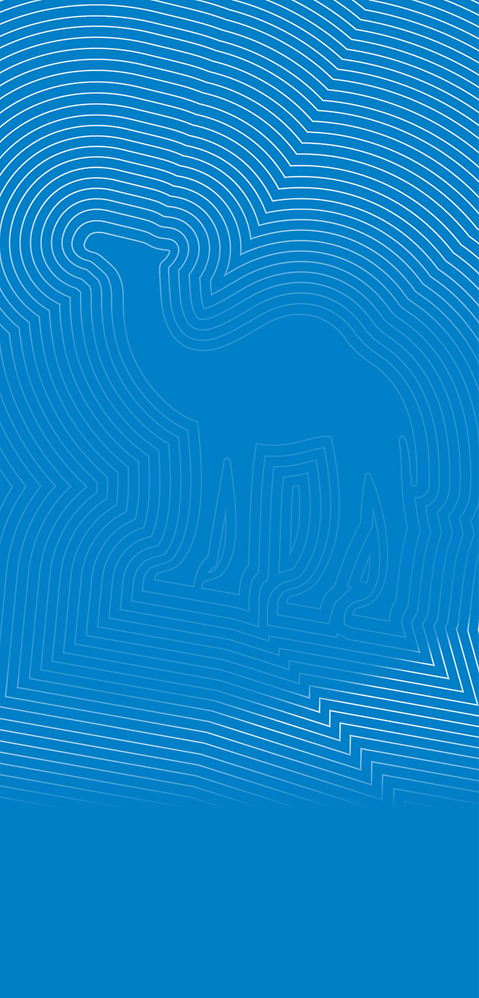
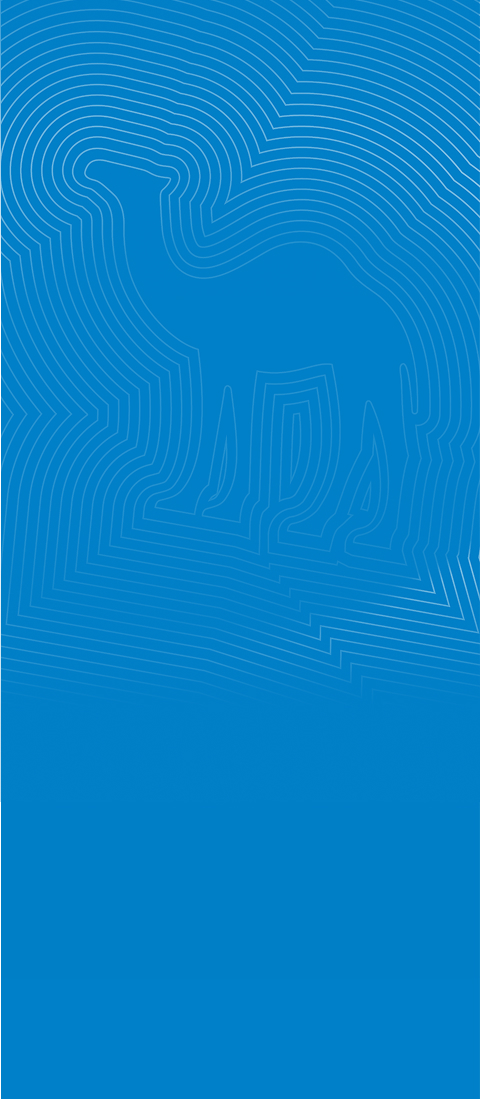
finish all project

diff --git a/css/main.css b/css/main.css
@@ -1,15 +1,19 @@
 @font-face {
-    font-family: 'Calibri Regular';
-    font-style: normal;
+    font-family: 'Calibri';
+    src: url('../fonts/Calibri.woff2') format('woff2'),
+    url('../fonts/Calibri.woff') format('woff');
     font-weight: normal;
-    src: local('Calibri Regular'), url('../fonts/Calibri.woff') format('woff');
+    font-style: normal;
+    font-display: swap;
 }
 
 @font-face {
     font-family: 'Calibri Bold';
+    src: url('../fonts/Calibri-Bold.woff2') format('woff2'),
+    url('../fonts/Calibri-Bold.woff') format('woff');
+    font-weight: bold;
     font-style: normal;
-    font-weight: normal;
-    src: local('Calibri Bold'), url('../fonts/Calibribold.woff') format('woff');
+    font-display: swap;
 }
 
 
@@ -195,6 +199,7 @@ body {
     align-items: center;
     gap:8px;
     color: #ffffff;
+    text-transform: uppercase;
 }
 .icon-arrow{
 
@@ -206,20 +211,9 @@ body {
 .btn:active{
     background: #337BCC;
 }
-.btn-small{
-    font-size: 20px;
-    font-weight: 400;
-    line-height: 22px;
-}
 
-.button-holder{
-    display: grid;
-    grid-template-columns: repeat(2, 1fr);
-    grid-column-gap: 14px;
-    grid-row-gap: 14px;
-    max-width: 368px;
-    margin: 0 auto 35px;
-}
+
+
 .buttons-wrap{
     display: flex;
     flex-direction: column;
@@ -228,10 +222,8 @@ body {
     margin: 0 auto 35px;
 }
 
-
-
 .link{
-    font: 400 15px "Futura New", sans-serif;
+    font: 400 15px "Calibri", sans-serif;
     letter-spacing: 0.02em;
     text-decoration-skip-ink: none;
     text-align: center;
@@ -247,11 +239,13 @@ body {
     color: #fff;
     text-shadow: 0 3px 6px 0 rgba(0, 0, 0, 0.3);
     margin-top: 0;
+    text-transform: uppercase;
 }
 
 .regular-title.small-mode{
     font: 700 22px "Calibri", sans-serif;
     letter-spacing: 0.02em;
+    text-transform: none;
 }
 
 .regular-text{
@@ -278,15 +272,13 @@ body {
 .mb-45{
     margin-bottom: 45px;
 }
-.mt-50{
-    margin-top: 50px;
+.mb-75{
+    margin-bottom: 75px;
 }
-.mt-90{
-    margin-top: 90px;
+.mb-90{
+    margin-bottom: 90px;
 }
-.mt-140{
-    margin-top: 140px;
-}
+
 .footer{
     background-color: #FFFFFF;
     text-align: center;
@@ -298,17 +290,8 @@ body {
     margin: 0 auto;
 }
 
-
-
-
-
 @media (min-width: 375px) {
     .footer img{
       min-height: 102px;
-    }
-}
-@media (min-width: 480px) {
-    .main-content{
-
     }
 }

diff --git a/page7.html b/page7.html
@@ -6,32 +6,46 @@
   <meta content="IE=edge" http-equiv="X-UA-Compatible">
   <meta content="width=device-width, initial-scale=1.0, maximum-scale=1.0, user-scalable=no" name="viewport">
   <meta content="telephone=no" name="format-detection"/>
-  <title>Jti Winston</title>
-  
-  
+  <title>Camel Compact Blue</title>
   <link rel="stylesheet" href="https://cdnjs.cloudflare.com/ajax/libs/normalize/8.0.1/normalize.min.css" integrity="sha512-NhSC1YmyruXifcj/KFRWoC561YpHpc5Jtzgvbuzx5VozKpWvQ+4nXhPdFgmx8xqexRcpAglTj9sIBWINXa8x5w==" crossorigin="anonymous" referrerpolicy="no-referrer" />
-  <link rel="stylesheet" href="https://cdn.jsdelivr.net/npm/swiper@11/swiper-bundle.min.css"/>
   <link href="css/main.css" rel="stylesheet" type="text/css">
 </head>
 
 <body>
 <main class="regular-bg">
   <div class="container">
-    <div class="small-content">
-      <h1 class="regular-title big-mode mb-25">გამოწერის გაუქმება</h1>
-      <img src="img/letter.svg" alt="letter" class="img-icon mb-25">
-      <p class="regular-text small-mode mb-25"> გთხოვთ, გვითხრათ, რატომ გსურთ <br> გამოწერის გაუქმება:</p>
-      <div class="buttons-wrap">
-        <button class="btn btn-small">არ ვარ <br> დაინტერესებული ასეთი <br>  შეთავაზებებით</button>
-        <button class="btn btn-small">არასდროს გამომიწერია</button>
-        <button class="btn btn-small">არ ვეწევი</button>
-        <button class="btn btn-small">სხვა მიზეზი</button>
-        <button class="btn btn-small">არ მინდა მიზეზის <br> დასახელება</button>
+    <div class="regular-content">
+      <div class="icon-content">
+        <h1 class="regular-title mb-75">
+          გამოწერის <br> გაუქმება
+        </h1>
+        <img src="img/icons/mail.svg" alt="mail" class="img-icon">
+        <p class="regular-text mb-25" >
+          გთხოვთ, გვითხრათ, რატომ <br>
+          გსურთ გამოწერის გაუქმება:
+        </p>
       </div>
-      <button class="icon-button btn"><img src="img/icons/arrow-right.svg" alt="ხელით"></button>
+      <div class="buttons-wrap">
+        <button class="btn"> <img src="img/icons/arrow-right.svg" alt="arrow-right" class="icon-arrow">
+          არ ვარ დაინტერესებული
+          <br>
+          ასეთი შეთავაზებებით
+        </button>
+        <button class="btn"> <img src="img/icons/arrow-right.svg" alt="arrow-right" class="icon-arrow">
+          არასდროს გამომიწერია
+        </button>
+        <button class="btn"> <img src="img/icons/arrow-right.svg" alt="arrow-right" class="icon-arrow">
+          არ ვეწევი
+        </button>
+        <button class="btn"> <img src="img/icons/arrow-right.svg" alt="arrow-right" class="icon-arrow">
+          სხვა მიზეზი
+        </button>
+        <button class="btn"> <img src="img/icons/arrow-right.svg" alt="arrow-right" class="icon-arrow">
+          არ მინდა მიზეზის დასახელება
+        </button>
+      </div>
     </div>
   </div>
-
 </main>
 <footer class="footer">
   <img src="img/footer.png" alt="footer-image">
@@ -39,8 +53,6 @@
 
 
 
-<script src="https://cdn.jsdelivr.net/npm/swiper@11/swiper-bundle.min.js"></script>
-<script src="js/main.js"></script>
 </body>
 
 </html>

diff --git a/page6.html b/page6.html
@@ -6,25 +6,27 @@
   <meta content="IE=edge" http-equiv="X-UA-Compatible">
   <meta content="width=device-width, initial-scale=1.0, maximum-scale=1.0, user-scalable=no" name="viewport">
   <meta content="telephone=no" name="format-detection"/>
-  <title>Jti Winston</title>
-  
-  
+  <title>Camel Compact Blue</title>
   <link rel="stylesheet" href="https://cdnjs.cloudflare.com/ajax/libs/normalize/8.0.1/normalize.min.css" integrity="sha512-NhSC1YmyruXifcj/KFRWoC561YpHpc5Jtzgvbuzx5VozKpWvQ+4nXhPdFgmx8xqexRcpAglTj9sIBWINXa8x5w==" crossorigin="anonymous" referrerpolicy="no-referrer" />
-  <link rel="stylesheet" href="https://cdn.jsdelivr.net/npm/swiper@11/swiper-bundle.min.css"/>
   <link href="css/main.css" rel="stylesheet" type="text/css">
 </head>
 
 <body>
 <main class="regular-bg">
   <div class="container">
-    <div class="icon-content">
-      <h1 class="regular-title mb-55">ᲒᲐᲛᲝᲙᲘᲗᲮᲕᲐ <br>ᲓᲐᲛᲗᲐᲕᲠᲓᲐ</h1>
-      <img src="img/message.svg" alt="message" class="img-icon">
-      <p class="regular-text"> Გმადლობთ, რომ დრო <br> დაგვითმეთ</p>
-      <a href="#" class="link mt-140">გამოწერის გაუქმება</a>
+    <div class="regular-content">
+      <div class="icon-content">
+        <h1 class="regular-title mb-90">
+          ᲒᲐᲛᲝᲙᲘᲗᲮᲕᲐ <br>
+          ᲓᲐᲛᲗᲐᲕᲠᲓᲐ
+        </h1>
+        <img src="img/icons/message.svg" alt="message" class="img-icon">
+        <p class="regular-text">
+          Გმადლობთ, რომ დრო <br> დაგვითმეთ
+        </p>
+      </div>
     </div>
   </div>
-
 </main>
 <footer class="footer">
   <img src="img/footer.png" alt="footer-image">
@@ -32,8 +34,6 @@
 
 
 
-<script src="https://cdn.jsdelivr.net/npm/swiper@11/swiper-bundle.min.js"></script>
-<script src="js/main.js"></script>
 </body>
 
 </html>